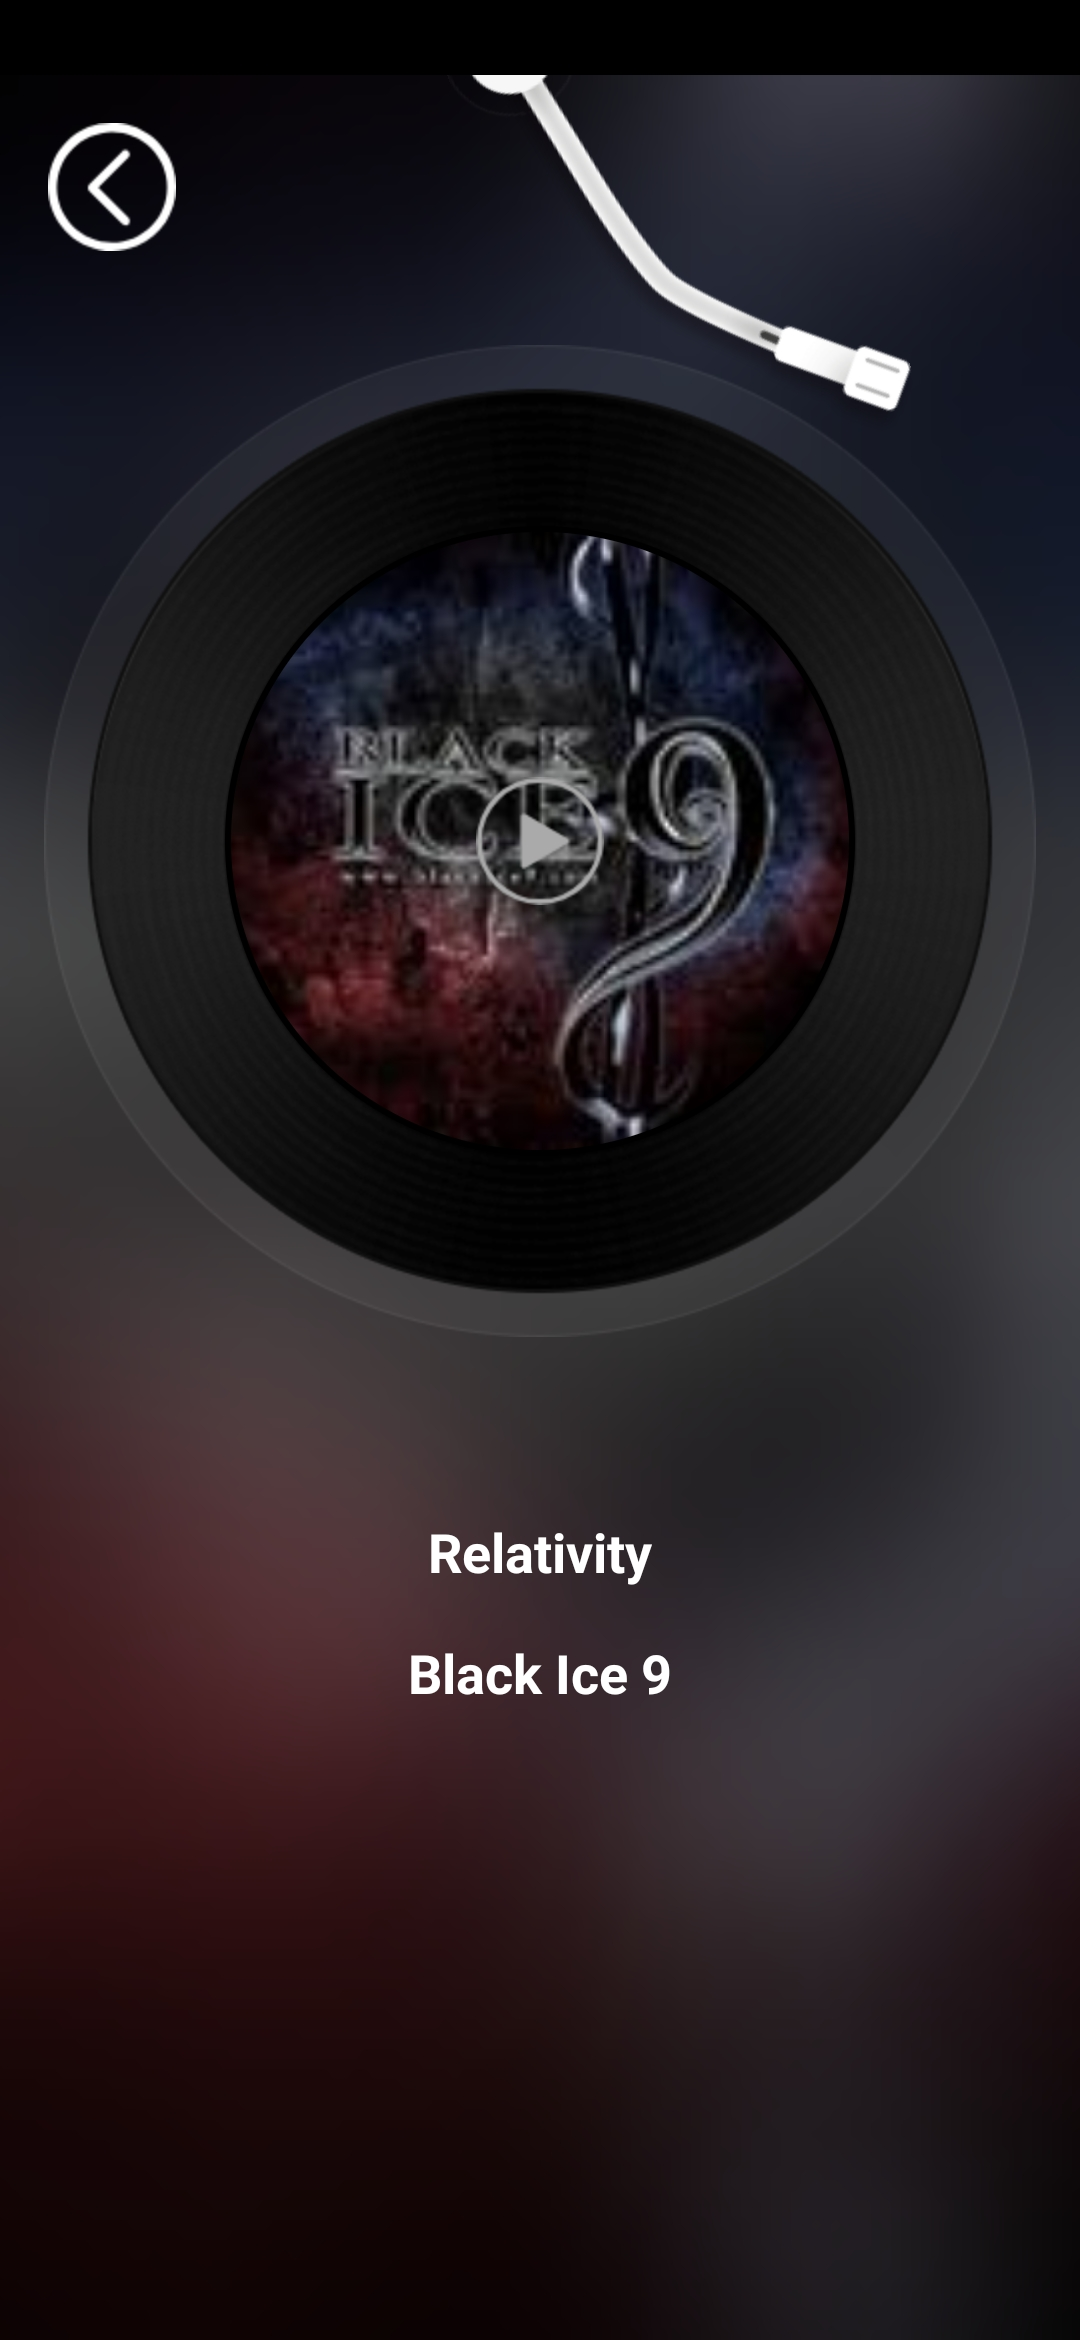
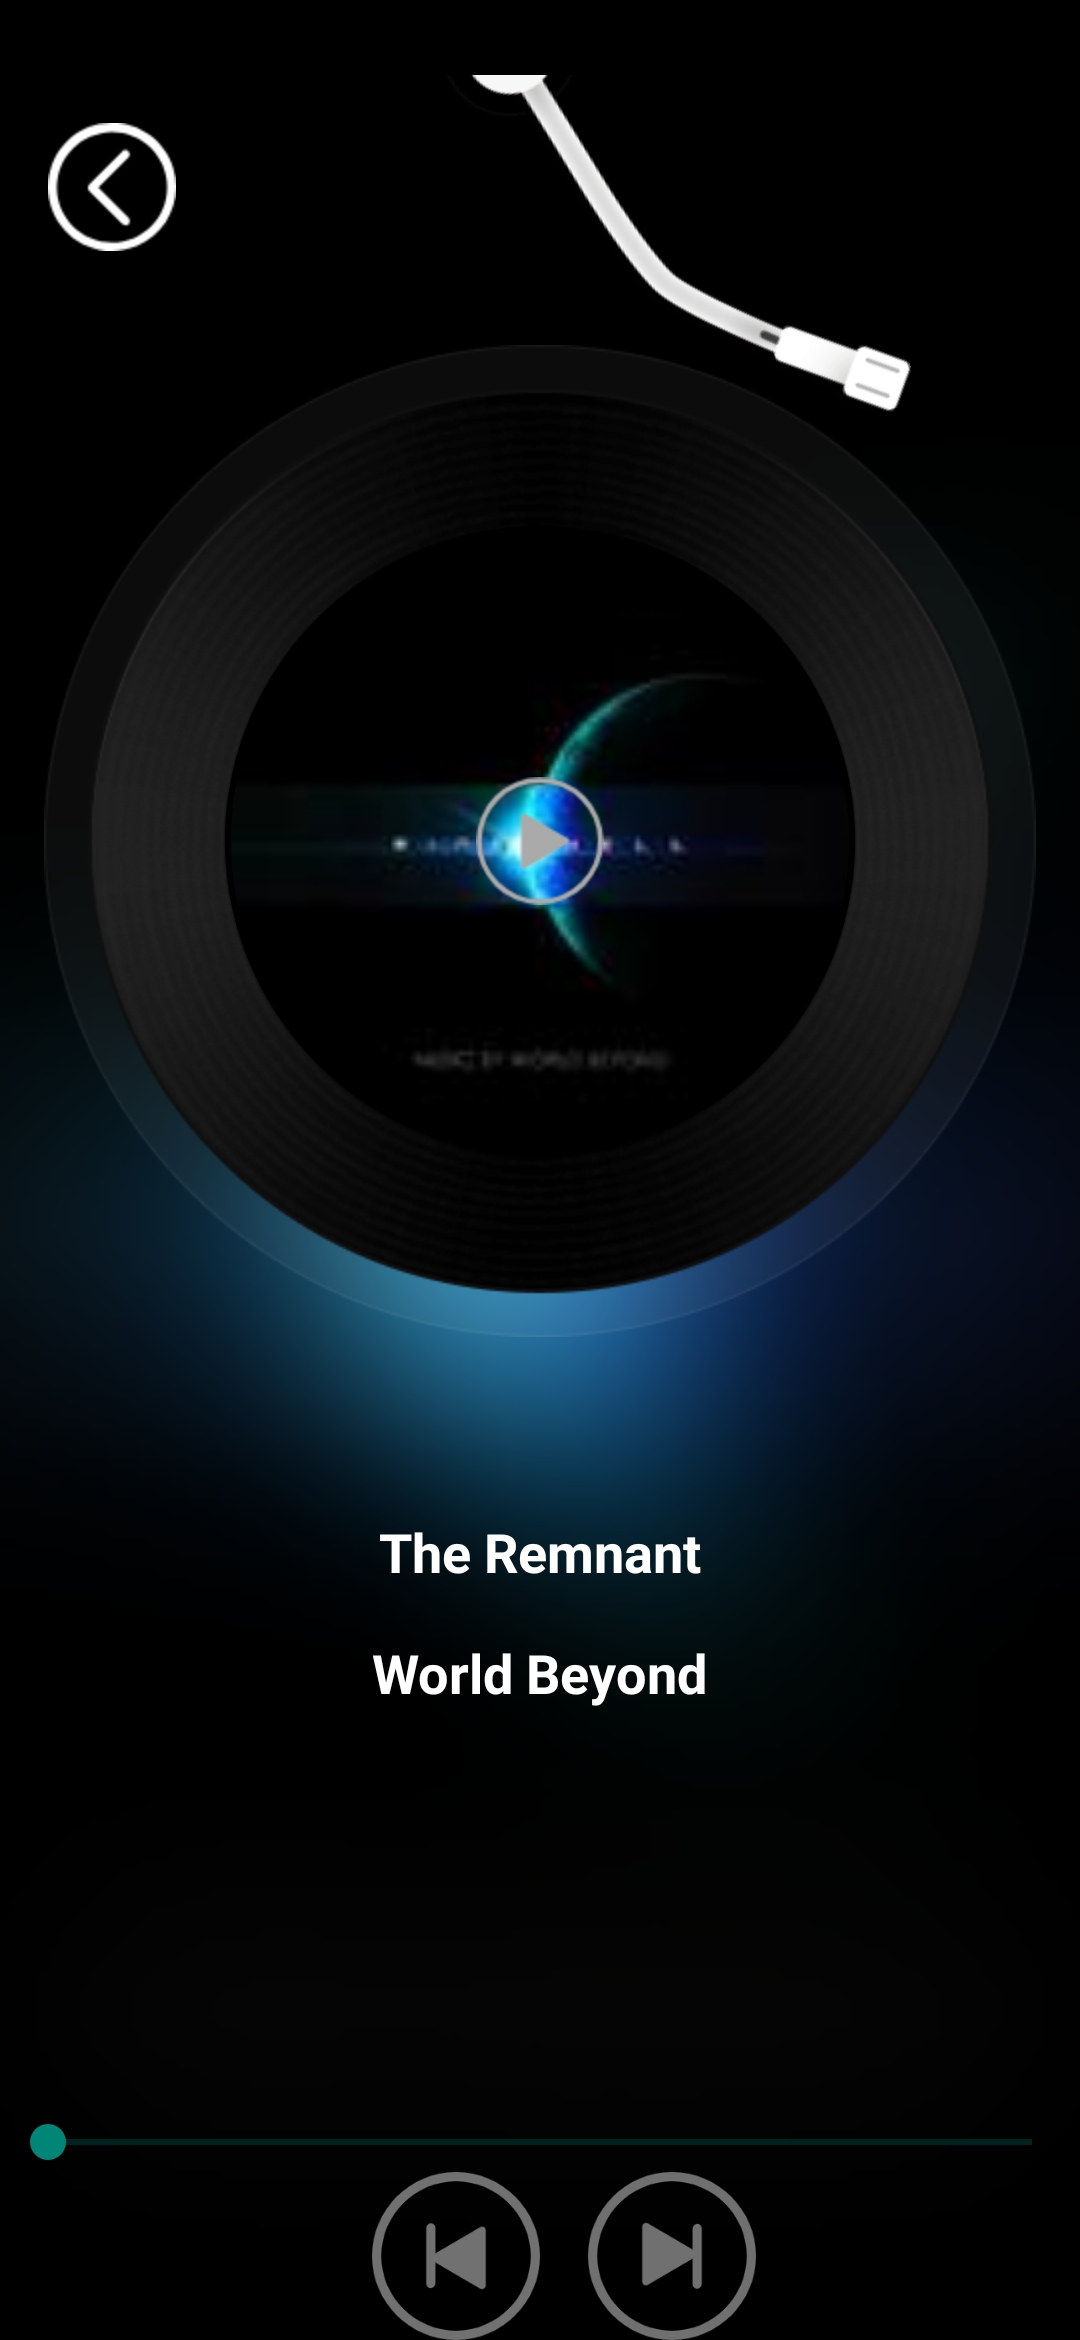
update readme

diff --git a/README.md b/README.md
@@ -80,6 +80,9 @@
 - 音乐播放页面
 
   - 点击中央盘带可以播放/暂停音乐
+  - 下方滚动条可以控制播放进度
+  - 下放前进/后退按钮可以在当前专辑中切换上一首/下一首歌曲
+  - 歌曲播放完成后会自动切换至专辑的下一首歌曲
 
   ![music_play](https://raw.githubusercontent.com/suvvm/nilMusic/master/readme_res/music_play.jpg)
 
